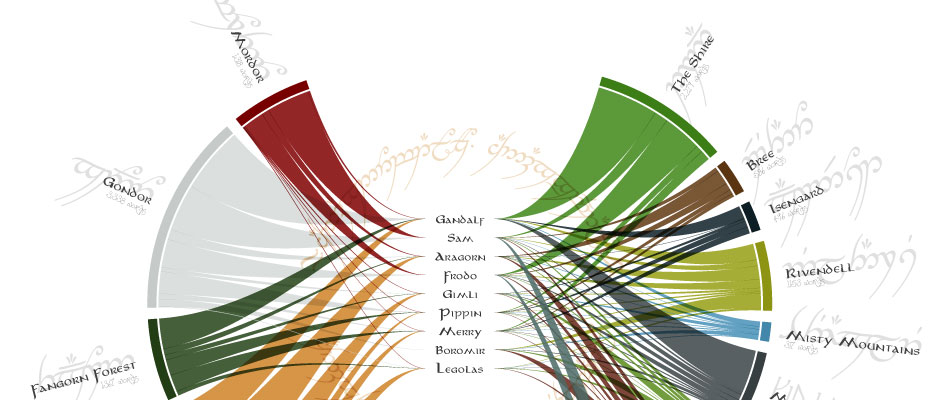
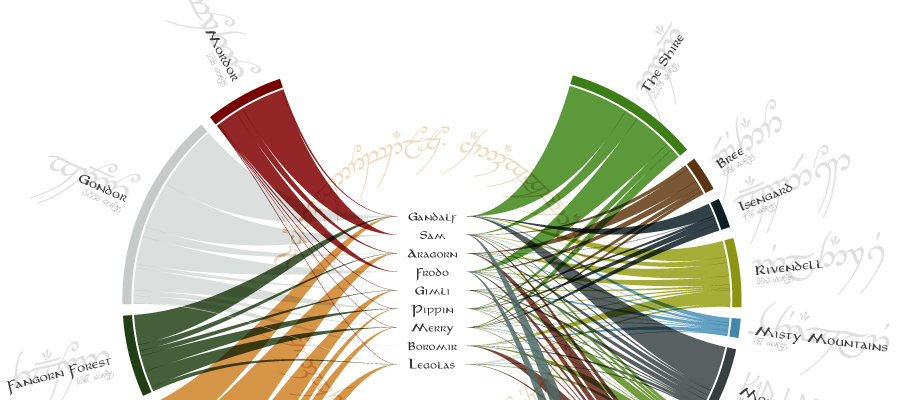
small adjustments

Changed region(s): [[0.0, 0.0, 0.9967, 1.0]]

diff --git a/july/code/nadieh/index.html b/july/code/nadieh/index.html
@@ -38,7 +38,7 @@
 			
 		<div class="lotr-content-wrapper">
 			<div id="lotr-footer">
-				<div id="lotr-sources">Go back to <a href="../..">datasketch<span stlye="color:#9a9a9a;">|</span>es' July month</a></div>
+				<div id="lotr-sources">Go back to <a href="../..">datasketches' July month</a></div>
 				<div id="lotr-credit">Created by Nadieh Bremer | <a href="http://www.visualcinnamon.com/">VisualCinnamon.com</a></div>
 				
 			</div>

diff --git a/july/code/nadieh/script.js b/july/code/nadieh/script.js
@@ -19,7 +19,7 @@ d3.select("html").style("font-size", newFontSize + "%");
 var pullOutSize = 20 + 30/135 * innerRadius;
 var numFormat = d3.format(",.0f");
 var defaultOpacity = 0.85,
-	fadeOpacity = 0.075;
+	fadeOpacity = 0.05;
 						
 var loom = loom()
     .padAngle(0.05)
